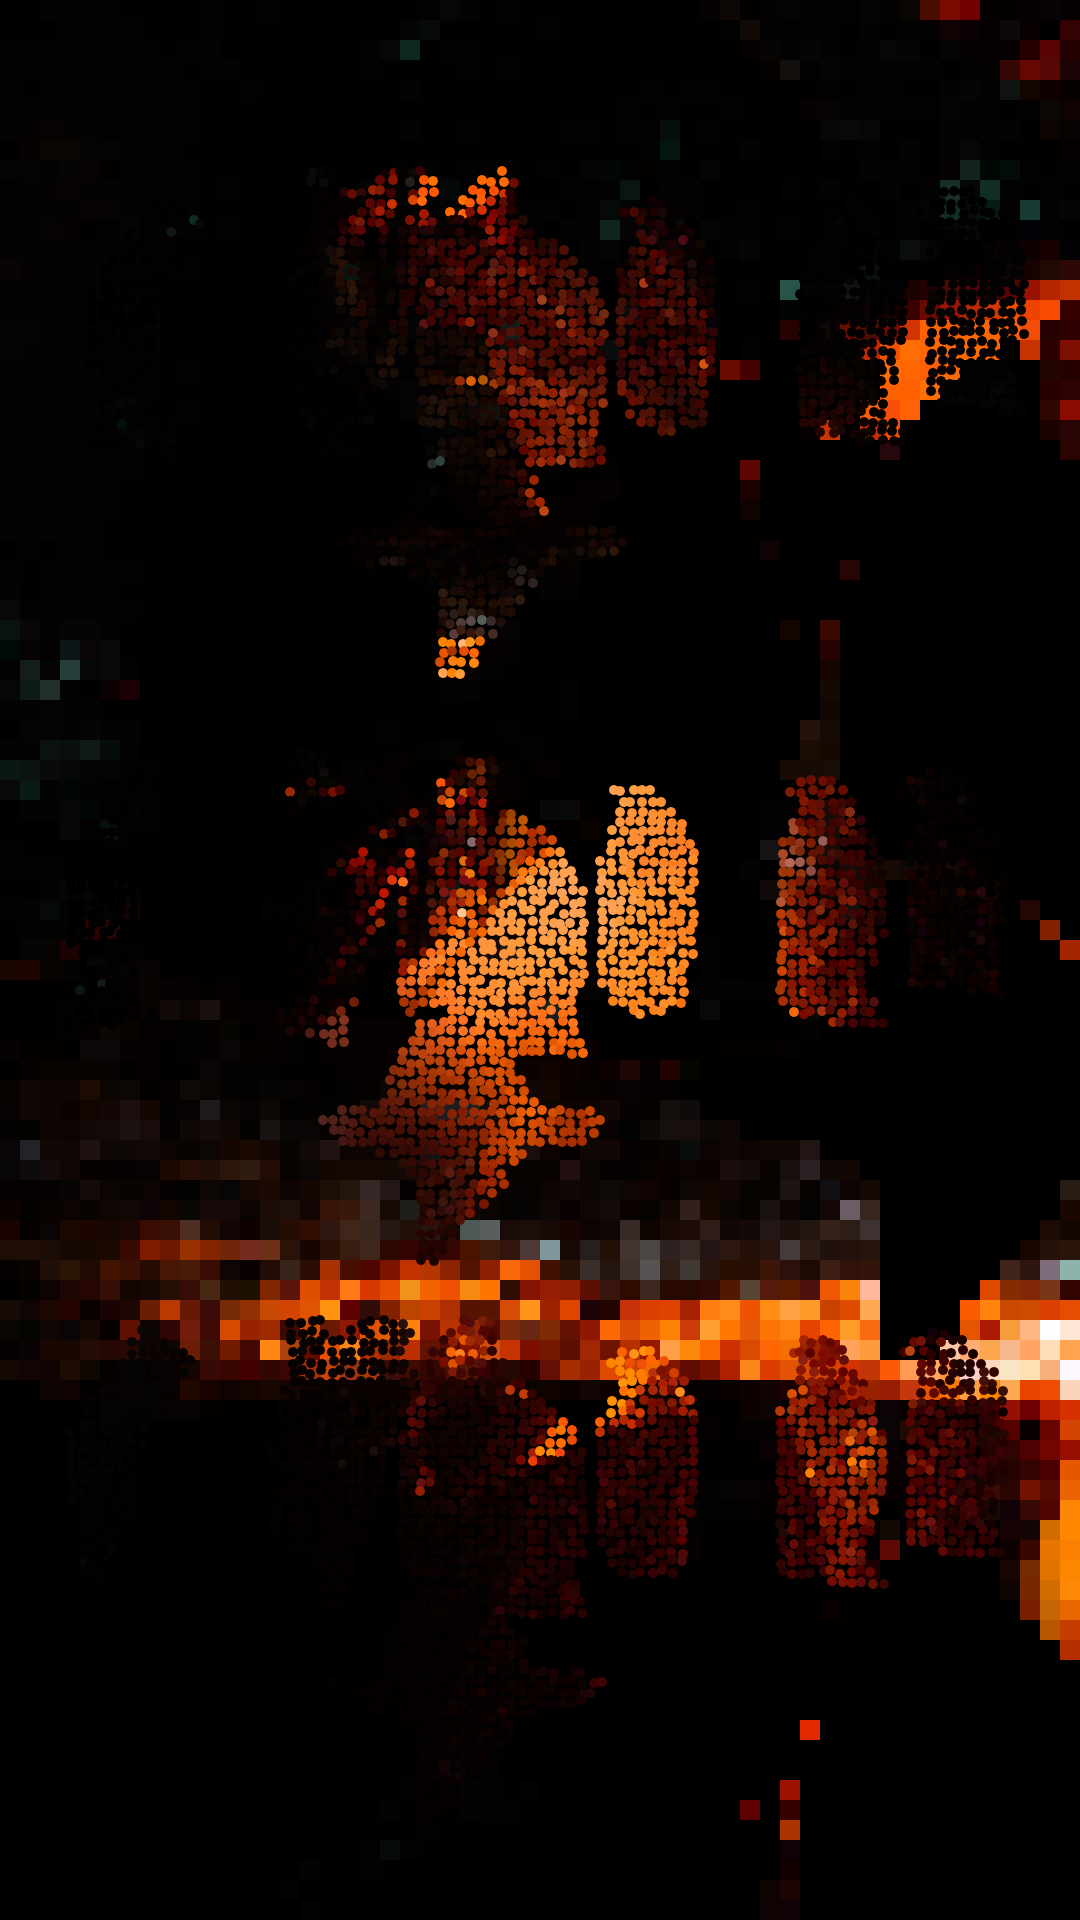
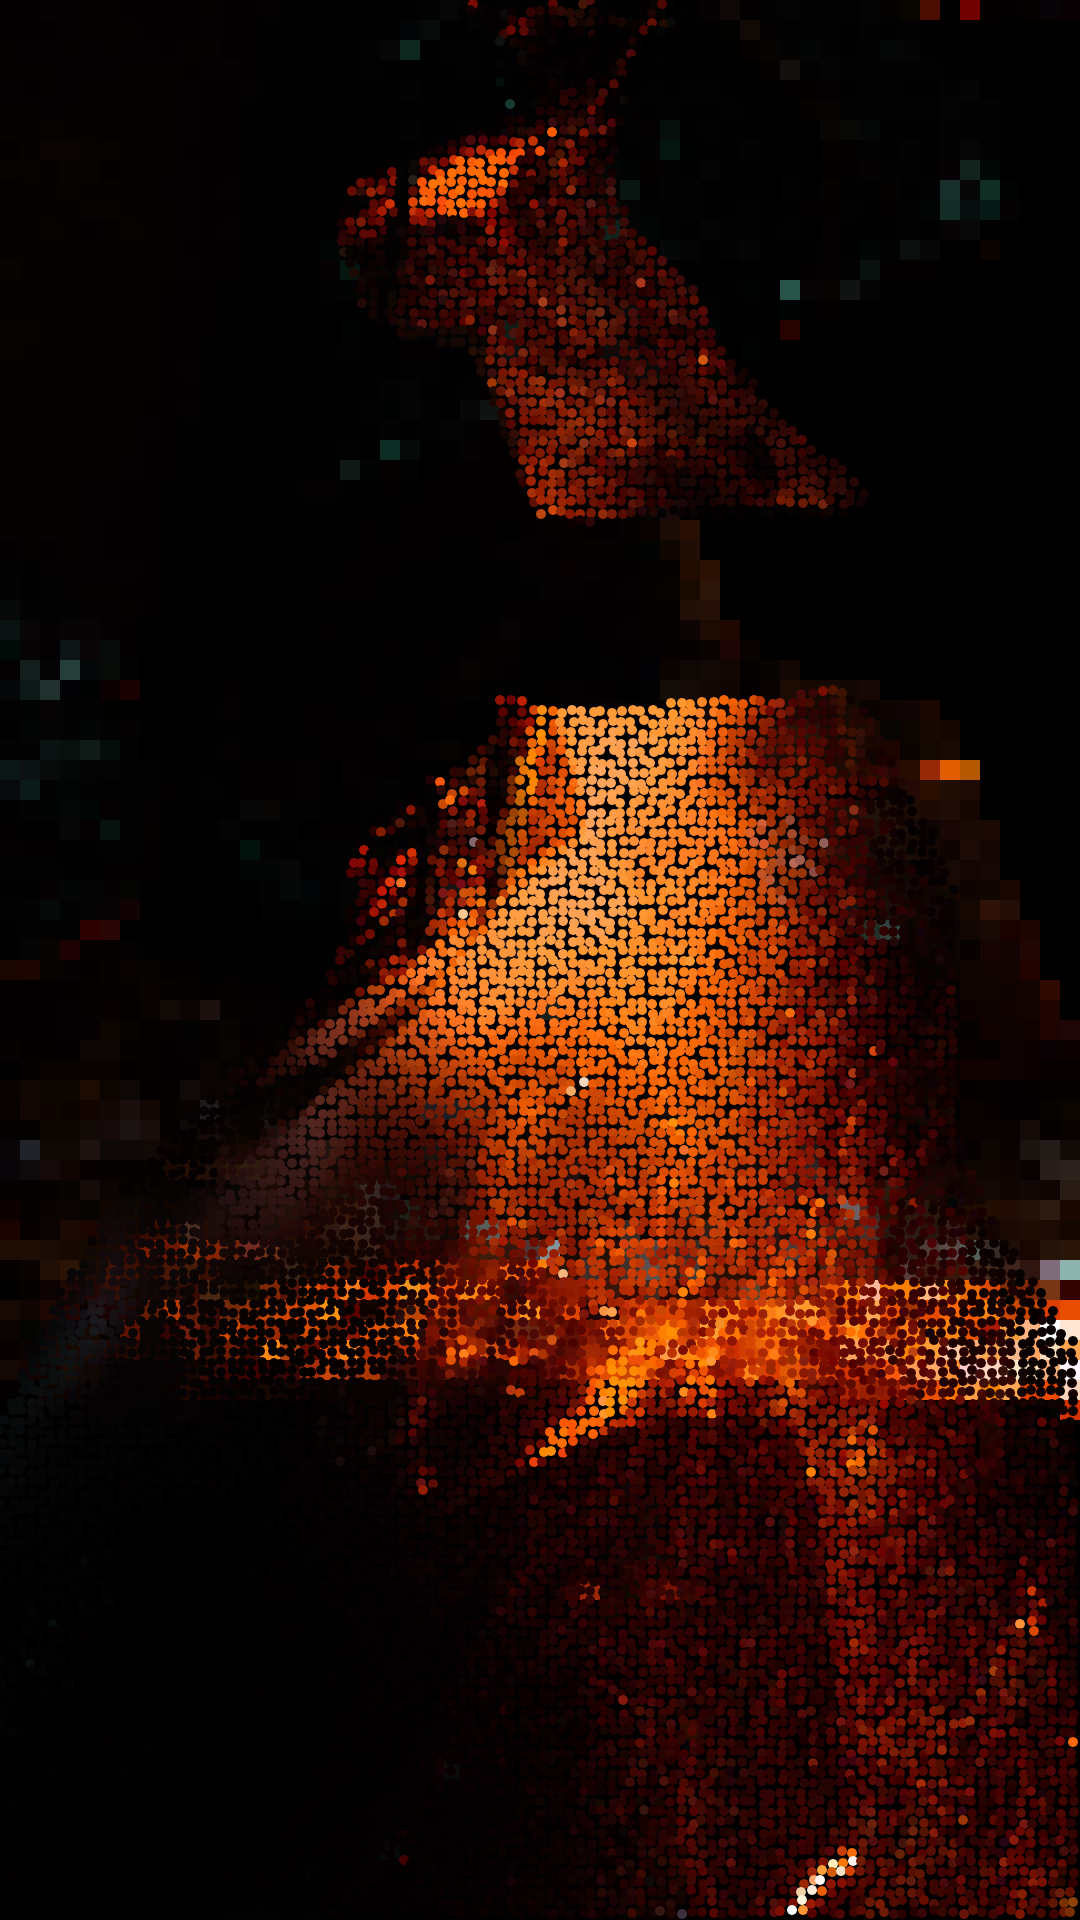
updated purview file

diff --git a/sketch.js b/sketch.js
@@ -3,8 +3,8 @@ let maskImg=null;
 let renderCounter=0;
 
 function preload() {
-  sourceImg = loadImage("input_3.jpg");
-  maskImg = loadImage("mask_4.png");
+  sourceImg = loadImage("input_1.jpg");
+  maskImg = loadImage("mask_1.png");
 }
 
 function setup () {
@@ -20,10 +20,10 @@ function setup () {
 
 function draw () {
   //define sizes and spacing
-    let circleSize = 10;
-    let elementSpacing = 10;
-    let elementSpacing2 = 20;
-    let squareSize = 20;
+    let circleSize = 5;
+    let elementSpacing = 5;
+    let elementSpacing2 = 10;
+    let squareSize = 10;
   // set variables inside for loop
   for(let i=0;i<1080/elementSpacing;i++) {
     let x = int (i * elementSpacing);
@@ -46,7 +46,7 @@ function draw () {
     }
     //draw rectangles for background
     else {
-      rect(x2, y2, squareSize, squareSize);     
+      rect(x2, y2, squareSize, squareSize);  
     }
   }
   renderCounter = renderCounter + 1;
@@ -61,7 +61,4 @@ function keyTyped() {
   if (key == '!') {
     saveBlocksImages();
   }
-}
-function shapeA (posx, posy, widthA, heightA) {
-  ellipse(x-halfSize, y-halfSize, widthA, heightA);   
 }
